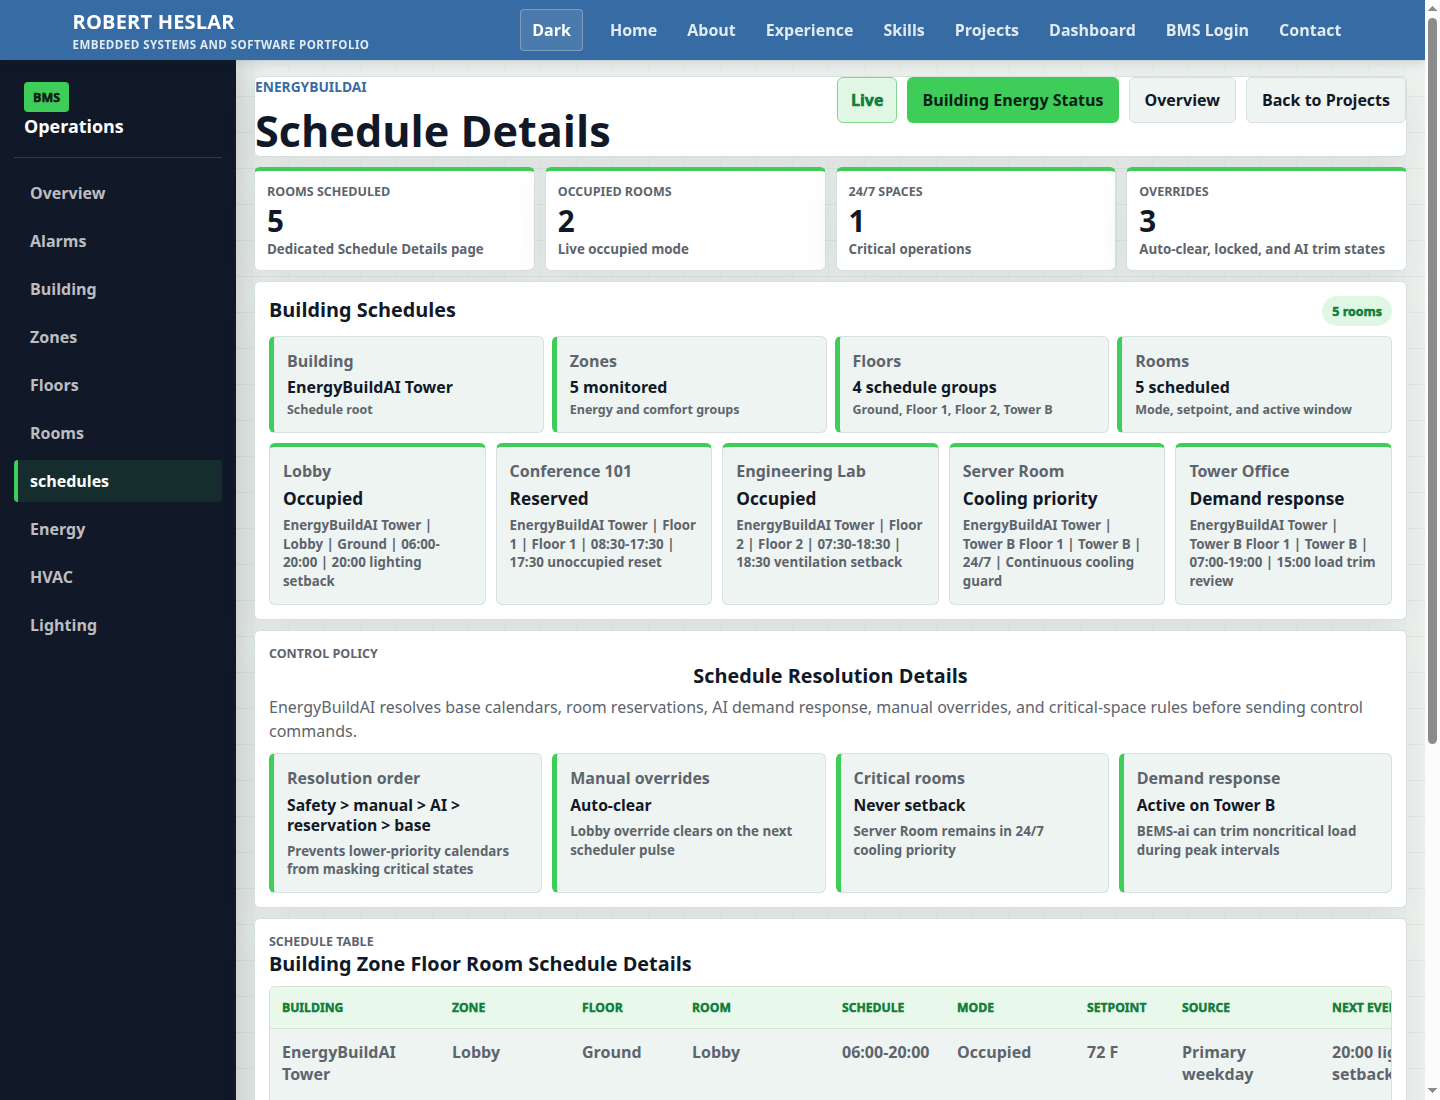
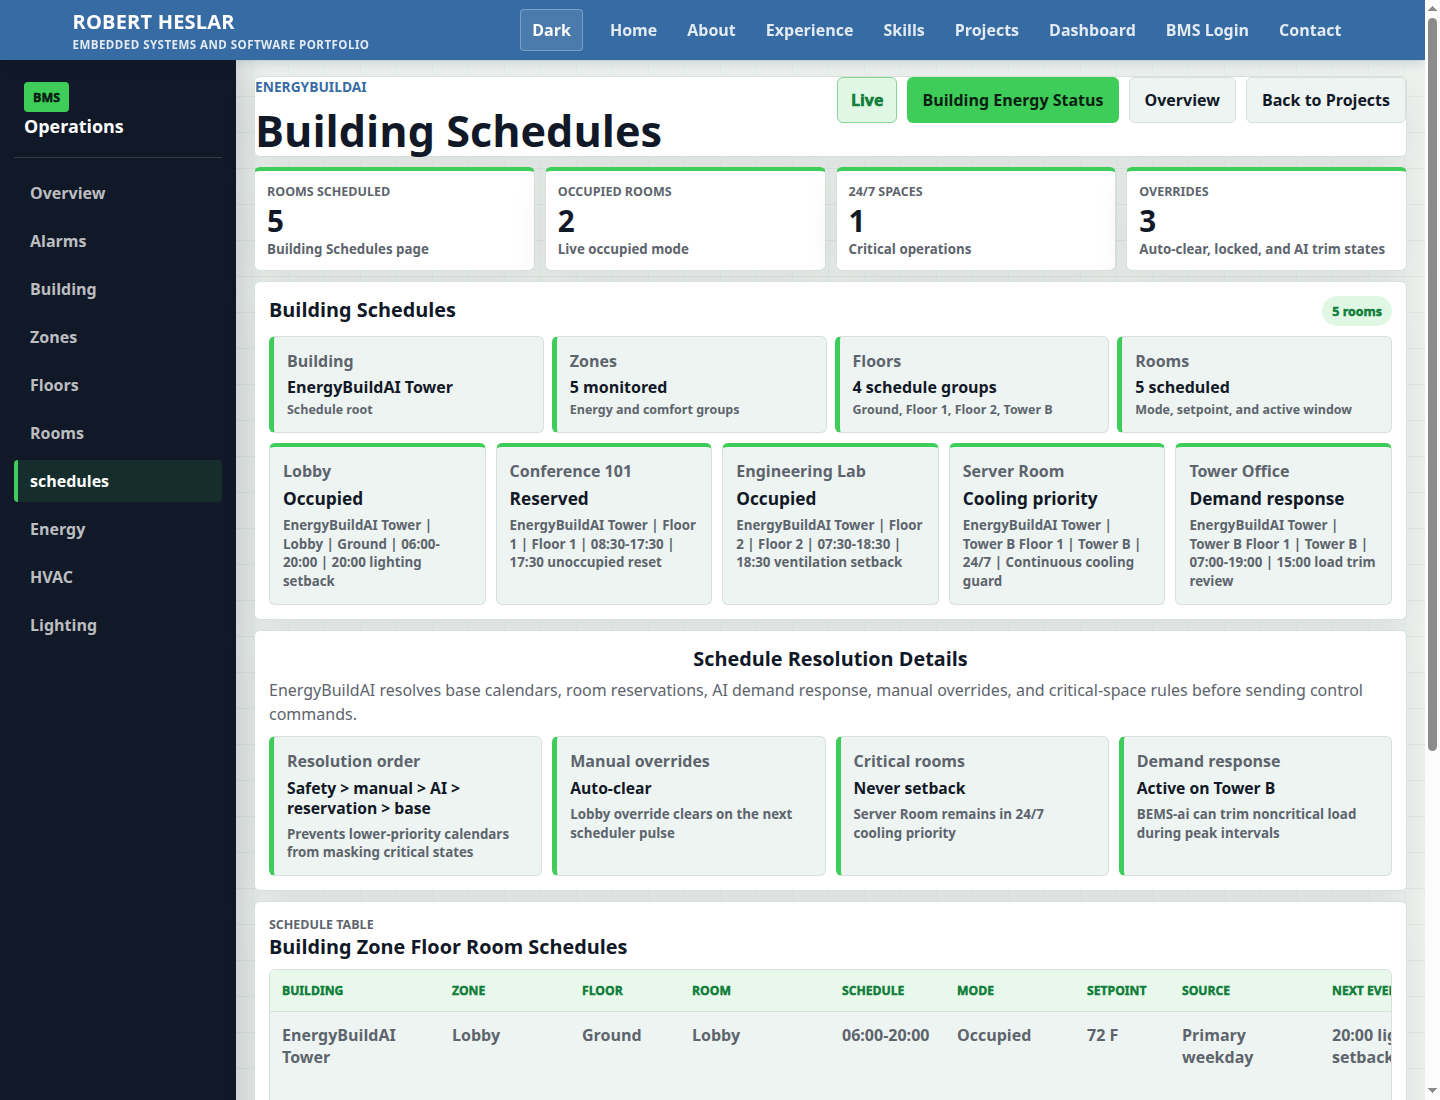
Update building schedules page labels

diff --git a/src/components/Dashboard.tsx b/src/components/Dashboard.tsx
@@ -351,7 +351,7 @@ function Dashboard({ activeView = 'Overview' }: DashboardProps) {
   ];
 
   const scheduleKpis = [
-    { label: 'Rooms scheduled', value: String(roomSchedules.length), helper: 'Dedicated Schedule Details page' },
+    { label: 'Rooms scheduled', value: String(roomSchedules.length), helper: 'Building Schedules page' },
     { label: 'Occupied rooms', value: String(roomSchedules.filter((room) => room.mode === 'Occupied').length), helper: 'Live occupied mode' },
     { label: '24/7 spaces', value: String(roomSchedules.filter((room) => room.schedule === '24/7').length), helper: 'Critical operations' },
     { label: 'Overrides', value: String(roomSchedules.filter((room) => room.override !== 'None').length), helper: 'Auto-clear, locked, and AI trim states' }
@@ -388,11 +388,11 @@ function Dashboard({ activeView = 'Overview' }: DashboardProps) {
       ? [
           { label: 'Building', value: 'Online' },
           { label: 'Floors', value: `${floorSummaries.length} active` },
-          { label: 'Schedule Details', value: 'Synced' }
+          { label: 'Building Schedules', value: 'Synced' }
         ]
       : isScheduleView
         ? [
-            { label: 'Schedule Details', value: 'Active' },
+            { label: 'Building Schedules', value: 'Active' },
             { label: 'Rooms', value: `${roomSchedules.length} listed` },
             { label: 'Sync State', value: 'Current' }
           ]
@@ -428,7 +428,7 @@ function Dashboard({ activeView = 'Overview' }: DashboardProps) {
         <section className="eco-topbar">
           <div>
             <p className="detail-kicker">EnergyBuildAI</p>
-            <h1>{isAlarmView ? 'Alarm Response Center' : isBuildingView ? 'Building Summary' : isScheduleView ? 'Schedule Details' : 'Building Operation Center'}</h1>
+            <h1>{isAlarmView ? 'Alarm Response Center' : isBuildingView ? 'Building Summary' : isScheduleView ? 'Building Schedules' : 'Building Operation Center'}</h1>
           </div>
           <div className="eco-topbar-actions">
             <span className="eco-live-pill">Live</span>
@@ -441,7 +441,7 @@ function Dashboard({ activeView = 'Overview' }: DashboardProps) {
                 className="cta-button secondary-cta"
                 onClick={() => jumpToDashboardContent('Schedules')}
               >
-                Schedule Details
+                Building Schedules
               </button>
             )}
             <button
@@ -725,7 +725,6 @@ function Dashboard({ activeView = 'Overview' }: DashboardProps) {
             <article className="eco-card eco-card-wide">
               <div className="eco-card-heading">
                 <div>
-                  <span>Control Policy</span>
                   <h2>Schedule Resolution Details</h2>
                   <p>EnergyBuildAI resolves base calendars, room reservations, AI demand response, manual overrides, and critical-space rules before sending control commands.</p>
                 </div>
@@ -745,7 +744,7 @@ function Dashboard({ activeView = 'Overview' }: DashboardProps) {
               <div className="eco-card-heading">
                 <div>
                   <span>Schedule Table</span>
-                  <h2>Building Zone Floor Room Schedule Details</h2>
+                  <h2>Building Zone Floor Room Schedules</h2>
                 </div>
               </div>
               <div className="eco-schedule-table" role="table" aria-label="Building zone floor room schedule details">

diff --git a/src/data/projects.ts b/src/data/projects.ts
@@ -846,7 +846,7 @@ const baseProjects: Project[] = [
         focus: 'BEMS-ai integration, service contracts, telemetry flow, deployment evidence model'
       },
       {
-        title: 'EnergyBuildAI Schedule Details',
+        title: 'EnergyBuildAI Building Schedules',
         path: 'docs/energybuildai-schedule-details.md',
         url: 'https://github.com/rheslar1/Rheslar1-github.io/blob/main/docs/energybuildai-schedule-details.md',
         focus: 'Schedule route, building-zone-floor-room schedule rows, override rules, dampers, motors, fans, and final screenshot evidence'
@@ -873,7 +873,7 @@ const baseProjects: Project[] = [
         title: 'Operator Manual',
         path: 'docs/bems-final-content/operator-manual.md',
         url: 'https://github.com/rheslar1/Rheslar1-github.io/blob/main/docs/bems-final-content/operator-manual.md',
-        focus: 'Recurring login, building, room, alarm, Schedule Details, reports, and system-health workflows'
+        focus: 'Recurring login, building, room, alarm, Building Schedules, reports, and system-health workflows'
       },
       {
         title: 'CI And Deployment Evidence',

diff --git a/src/App.test.tsx b/src/App.test.tsx
@@ -92,10 +92,10 @@ test('renders schedules directly from #dashboard/schedules without the removed i
     jest.advanceTimersByTime(600);
   });
 
-  expect(container.textContent).toContain('Schedule Details');
   expect(container.textContent).toContain('schedules');
   expect(container.textContent).toContain('Building Schedules');
-  expect(container.textContent).not.toContain('Building Hierarchy');
+  expect(container.textContent).not.toContain(['Schedule', 'Details'].join(' '));
+  expect(container.textContent).not.toContain(['Building', 'Hierarchy'].join(' '));
   expect(container.textContent).not.toContain('Dedicated schedule view organized from building to zone, floor, and room-level operating windows.');
   expect(container.querySelector('.eco-command-hero')).toBeNull();
   expect(container.textContent).not.toContain('Secure BMS Access');

diff --git a/docs/energybuildai-schedule-details.md b/docs/energybuildai-schedule-details.md
@@ -1,6 +1,6 @@
-# EnergyBuildAI Schedule Details
+# EnergyBuildAI Building Schedules
 
-This document describes the Schedule Details view shown in the portfolio dashboard at `#dashboard/schedules`.
+This document describes the Building Schedules view shown in the portfolio dashboard at `#dashboard/schedules`.
 
 ## Dashboard Route
 
@@ -45,8 +45,8 @@ The dashboard also surfaces equipment that influences schedule execution:
 
 ## Captured Evidence
 
-- `docs/evidence/energybuildai-schedules-desktop.png`: desktop screenshot of the Schedule Details route at `#dashboard/schedules`.
-- `docs/evidence/energybuildai-schedules-mobile.png`: mobile screenshot of the Schedule Details route at `#dashboard/schedules`.
+- `docs/evidence/energybuildai-schedules-desktop.png`: desktop screenshot of the Building Schedules route at `#dashboard/schedules`.
+- `docs/evidence/energybuildai-schedules-mobile.png`: mobile screenshot of the Building Schedules route at `#dashboard/schedules`.
 - `docs/evidence/energybuildai-building-summary-desktop.png`: screenshot of the Building Summary view after the wording update.
 - `docs/evidence/energybuildai-equipment-systems-desktop.png`: screenshot of fans, dampers, motors, pump motor, and lighting relay system details.
 - `docs/energybuildai-schedule-api-seed-evidence.md`: seeded schedule rows and future BEMS API mapping.

diff --git a/docs/evidence/README.md b/docs/evidence/README.md
@@ -4,8 +4,8 @@ Generated evidence captured from the local production build and deterministic pr
 
 ## EnergyBuildAI Dashboard
 
-- `energybuildai-schedules-desktop.png`: desktop capture of `#dashboard/schedules` with the Schedule Details view, building-zone-floor-room details, schedule source, next event, override state, and control intent.
-- `energybuildai-schedules-mobile.png`: mobile capture of the Schedule Details route at `#dashboard/schedules`.
+- `energybuildai-schedules-desktop.png`: desktop capture of `#dashboard/schedules` with the Building Schedules view, building-zone-floor-room rows, schedule source, next event, override state, and control intent.
+- `energybuildai-schedules-mobile.png`: mobile capture of the Building Schedules route at `#dashboard/schedules`.
 - `energybuildai-building-summary-desktop.png`: desktop capture of `#dashboard/building` after renaming the page to Building Summary and adding expanded systems context.
 - `energybuildai-equipment-systems-desktop.png`: desktop capture focused on fans, dampers, motors, pump motor, and lighting relay system health.
 

diff --git a/docs/portfolio-screenshot-matrix.md b/docs/portfolio-screenshot-matrix.md
@@ -9,7 +9,7 @@ Screenshots were captured from the production build served locally on port `4173
 | BEMS project detail | `docs/evidence/portfolio-project-bems-desktop.png` | `docs/evidence/portfolio-project-bems-mobile.png` |
 | BMS login | `docs/evidence/bms-login-01-sign-in.png` | `docs/evidence/bms-login-01-sign-in-mobile.png` |
 | Dashboard landing | `docs/evidence/bms-login-02-dashboard-landing.png` | `docs/evidence/bms-login-02-dashboard-landing-mobile.png` |
-| EnergyBuildAI Schedule Details | `docs/evidence/energybuildai-schedules-desktop.png` | `docs/evidence/energybuildai-schedules-mobile.png` |
+| EnergyBuildAI Building Schedules | `docs/evidence/energybuildai-schedules-desktop.png` | `docs/evidence/energybuildai-schedules-mobile.png` |
 | Building Summary and equipment | `docs/evidence/energybuildai-equipment-systems-desktop.png` | Add mobile detail capture after next UI pass. |
 
 ## Simulation Screenshot Set

diff --git a/docs/energybuildai-schedule-route-test-report.md b/docs/energybuildai-schedule-route-test-report.md
@@ -14,7 +14,7 @@ renders schedules directly from #dashboard/schedules without the removed intro c
 
 The test sets `window.location.hash = '#dashboard/schedules'`, renders `App`, advances the loading timer, and verifies:
 
-- the dashboard renders the `Schedule Details` page title,
+- the dashboard renders the `Building Schedules` page title,
 - the left operation sidebar renders `schedules`,
 - the removed schedule-intro copy does not render on the route,
 - the previous long intro text is absent,

diff --git a/docs/bems-final-content/operator-manual.md b/docs/bems-final-content/operator-manual.md
@@ -27,7 +27,7 @@
 3. Review source, current reading, threshold, likely cause, impact, and action.
 4. Acknowledge or clear in the BMS UI/API workflow when connected to backend data.
 
-## Schedule Details Review
+## Building Schedules Review
 
 1. Open `#dashboard/schedules`.
 2. Review building, zone, floor, room, schedule, mode, setpoint, source, next event, override, and control intent.

diff --git a/docs/energybuildai-schedule-api-seed-evidence.md b/docs/energybuildai-schedule-api-seed-evidence.md
@@ -1,6 +1,6 @@
 # EnergyBuildAI Schedule API And Seed Evidence
 
-This evidence documents the current seeded Schedule Details rows used by the portfolio dashboard at `#dashboard/schedules`.
+This evidence documents the current seeded Building Schedules rows used by the portfolio dashboard at `#dashboard/schedules`.
 
 ## Source Boundary
 
